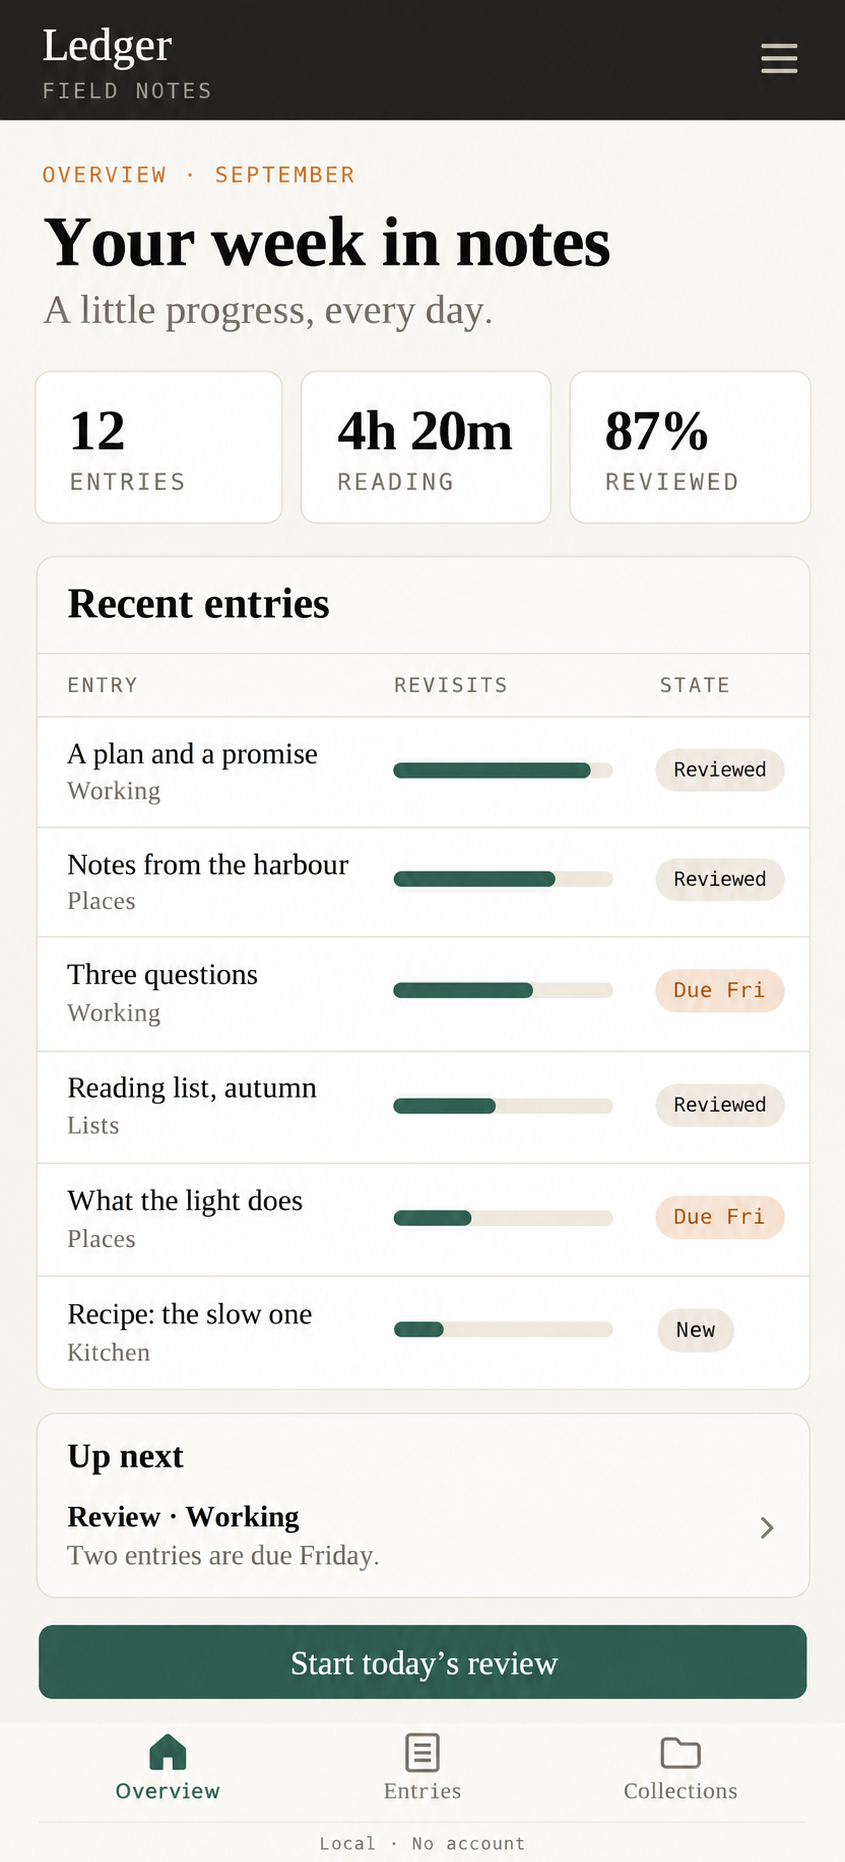
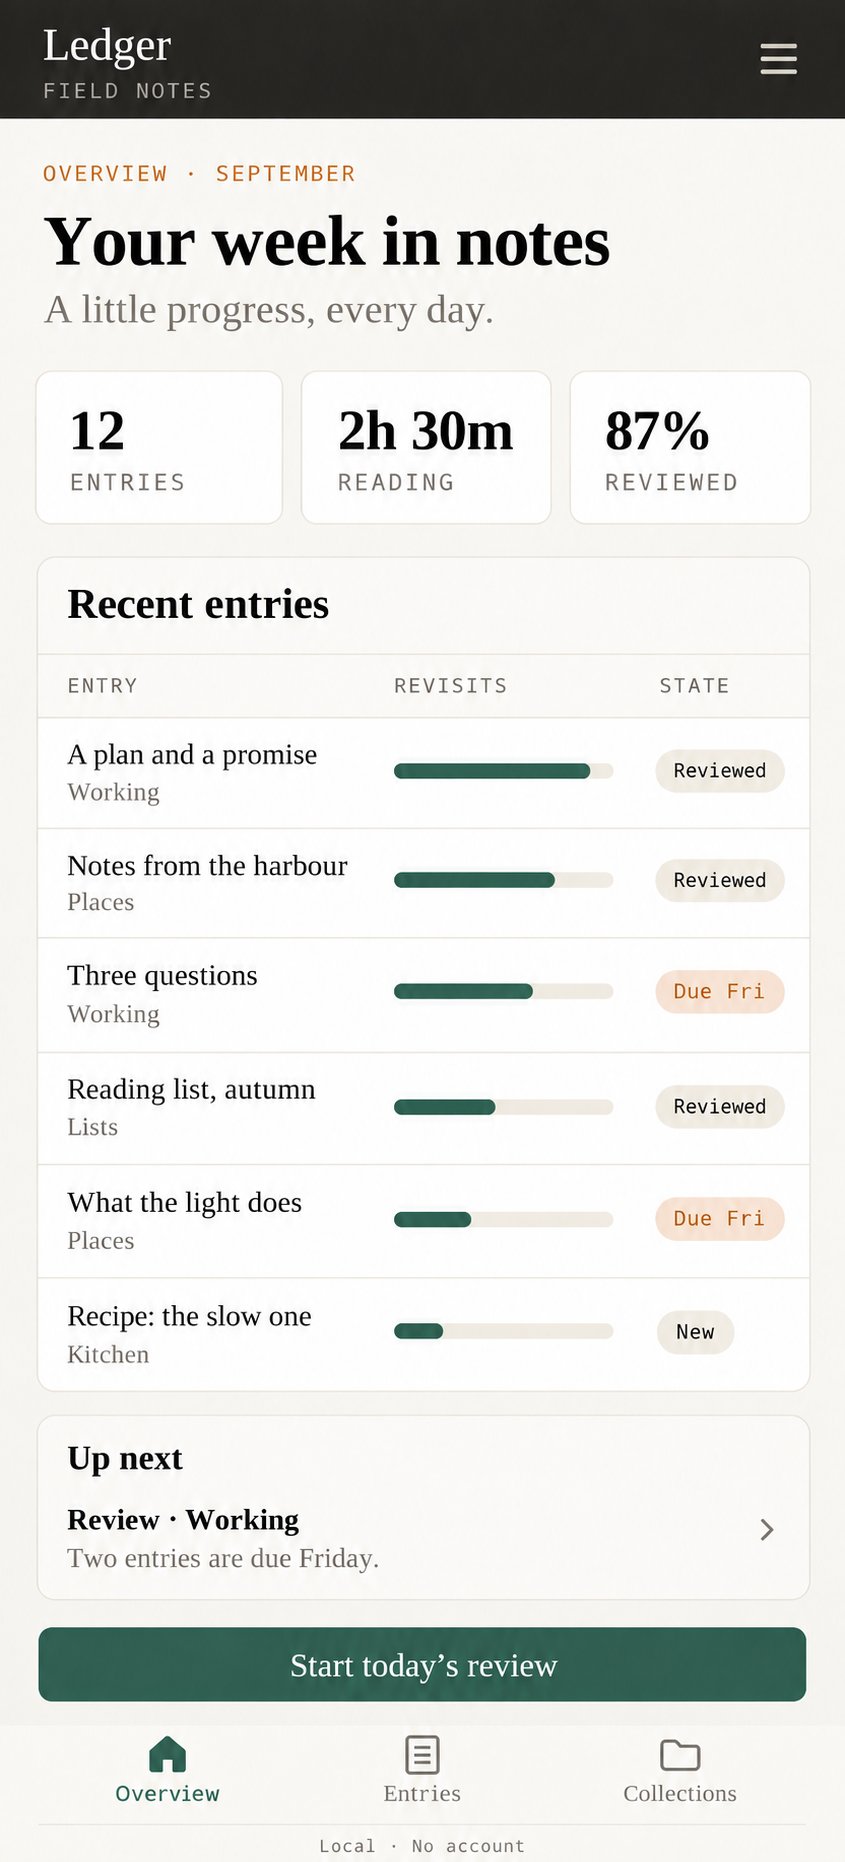
chore: update starting demo reading duration to 2h 30m (T-P9m)

diff --git a/docs/tickets/T-P9m.md b/docs/tickets/T-P9m.md
@@ -1,0 +1,29 @@
+# T-P9m — starting portrait duration
+
+Author: Codex (backend identifier not exposed), 2026-09-29.
+Owner request: change "4h 20m" to "2h 30m" on the starting demo screenshot.
+Cites §4.1/P-9, §2.1–2.3 and §7; research T-P9m-research F1–F3.
+
+## Write set
+Only public/demo.png and these two ticket/research documents.
+Keep runtime, landscape demo, composition thumbnails, dependencies, tests,
+specification and fixtures unchanged. No automatic baseline blessing.
+
+## Implementation and validation
+- Built-in imagegen edited the existing portrait, instructed to replace only
+  the reading duration with exact text "2h 30m" while preserving typography,
+  framing and all other content. No paid API was invoked.
+- Before/after images visually inspected: requested text is correct; all
+  sections, other copy, colors and overall layout remain present. Generative
+  raster editing can slightly alter surrounding pixels; this is not a
+  byte-identical patch outside the duration.
+- Opaque RGB PNG, dimensions unchanged at 845×1862.
+- SHA-256: 501806464129b1fcd098daa593856b24a740dac4dfa4539956d0c1d3cd2f6805.
+- Git blob: 2577c608a83b9a0dccad4edbcf84febbd4d4b559.
+- npm run build PASS (existing >700kB chunk warning); git diff --check PASS.
+  Output JS/CSS names remain index-mKY0XFwz.js / index-DhyIrSNn.css.
+- No new behavior or test was added for this content-only replacement.
+  Full local CI was not rerun; normal exact-head cloud checks remain pending.
+  Previous commit test successes are not new-asset test results.
+- Expected phone PG differences require review against unchanged fixtures.
+  Independent review, owner visual approval and merge remain separate.
